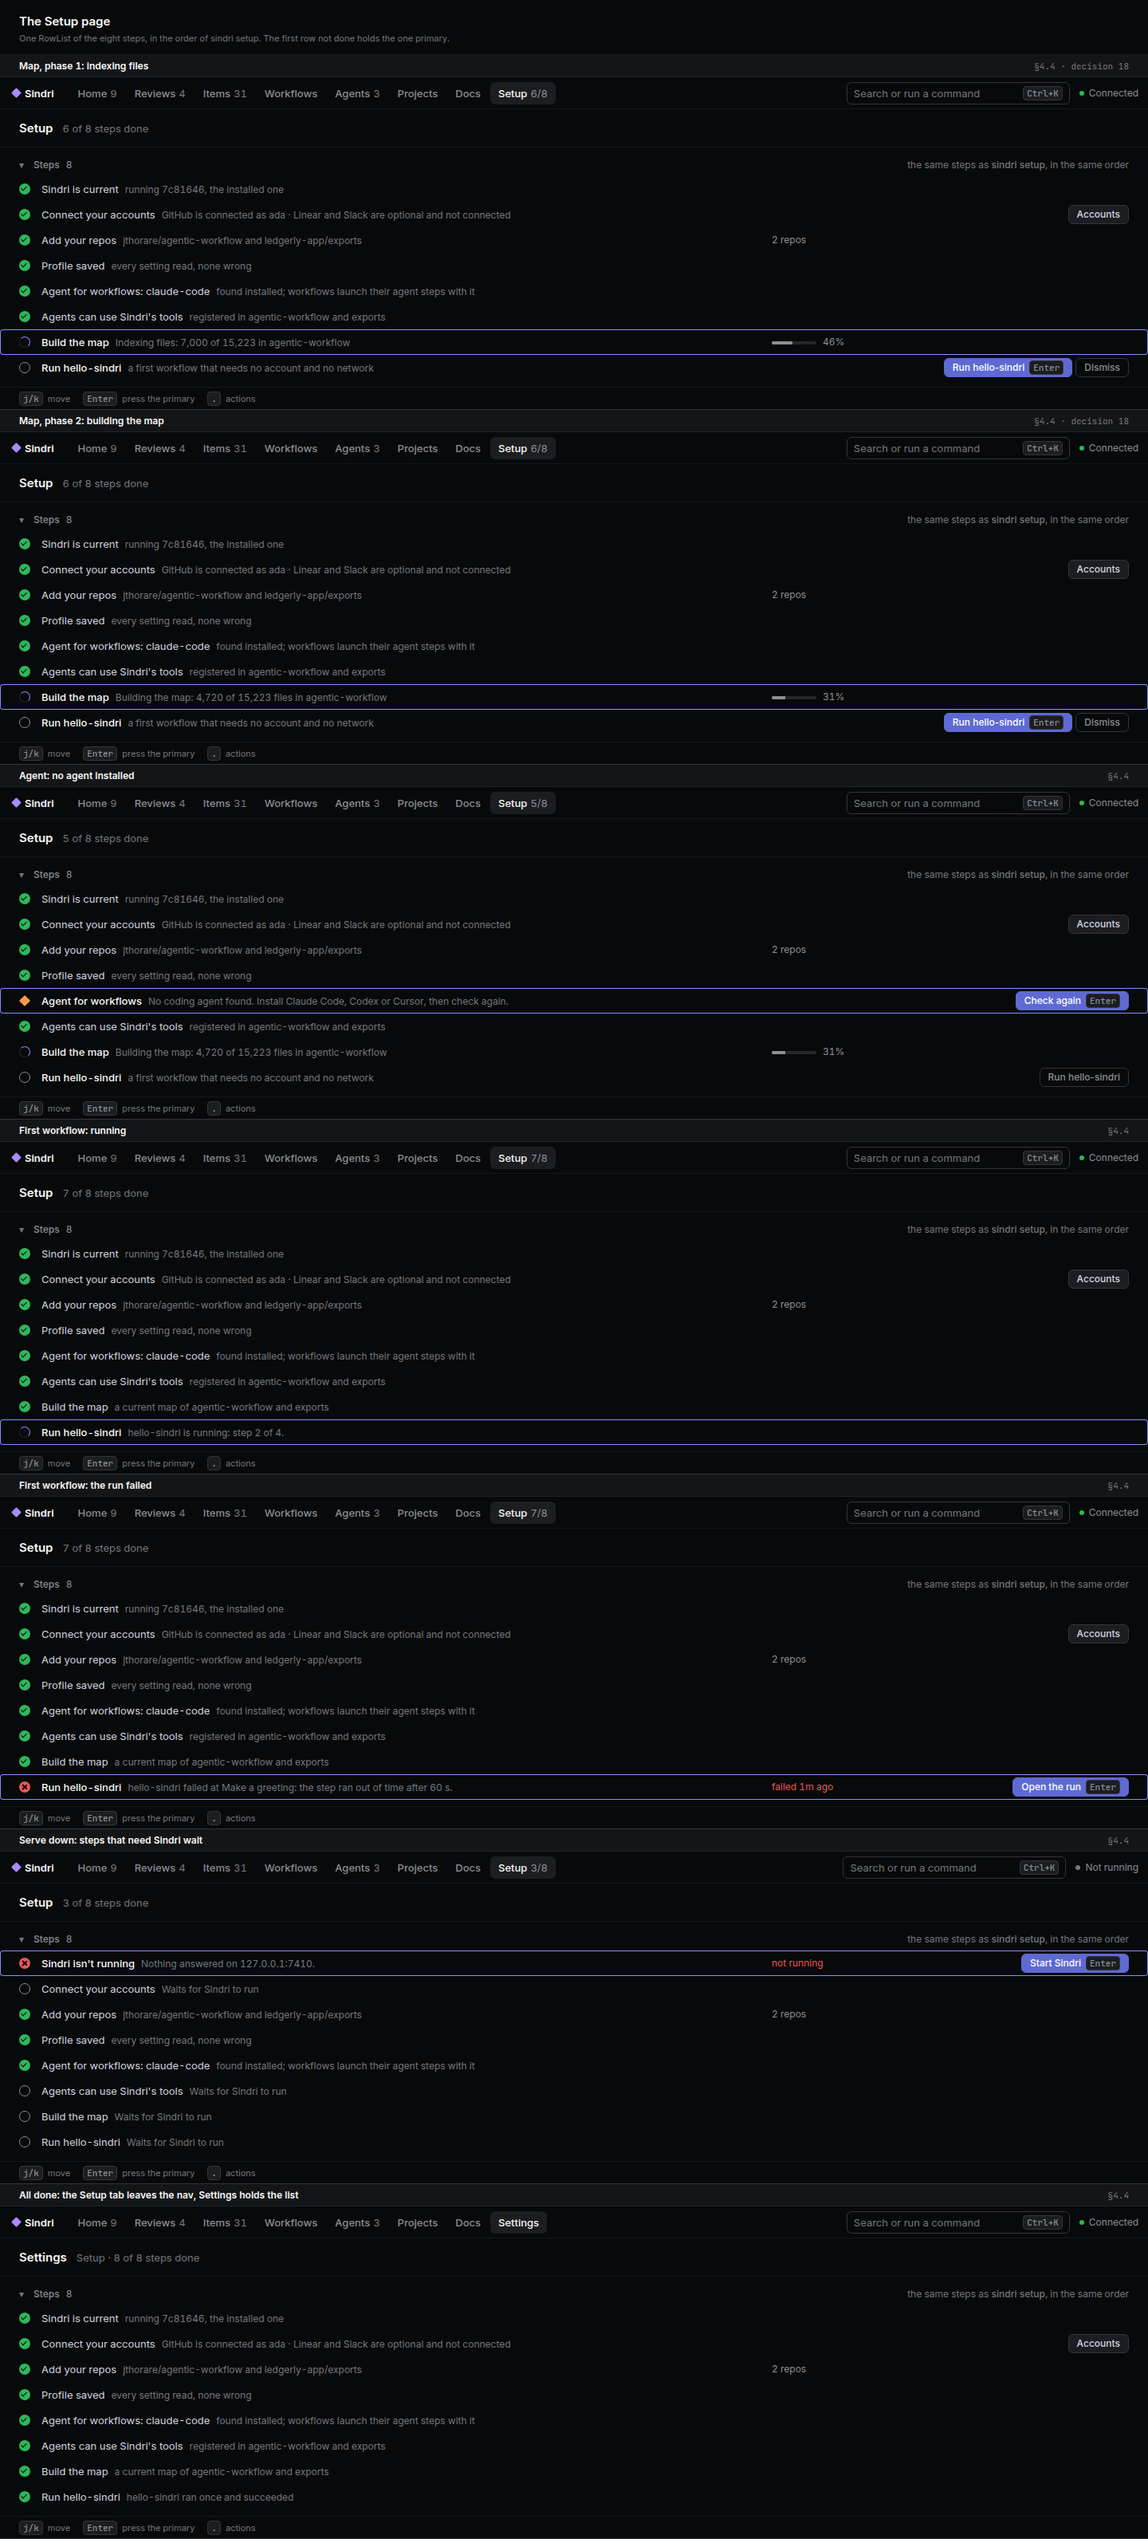
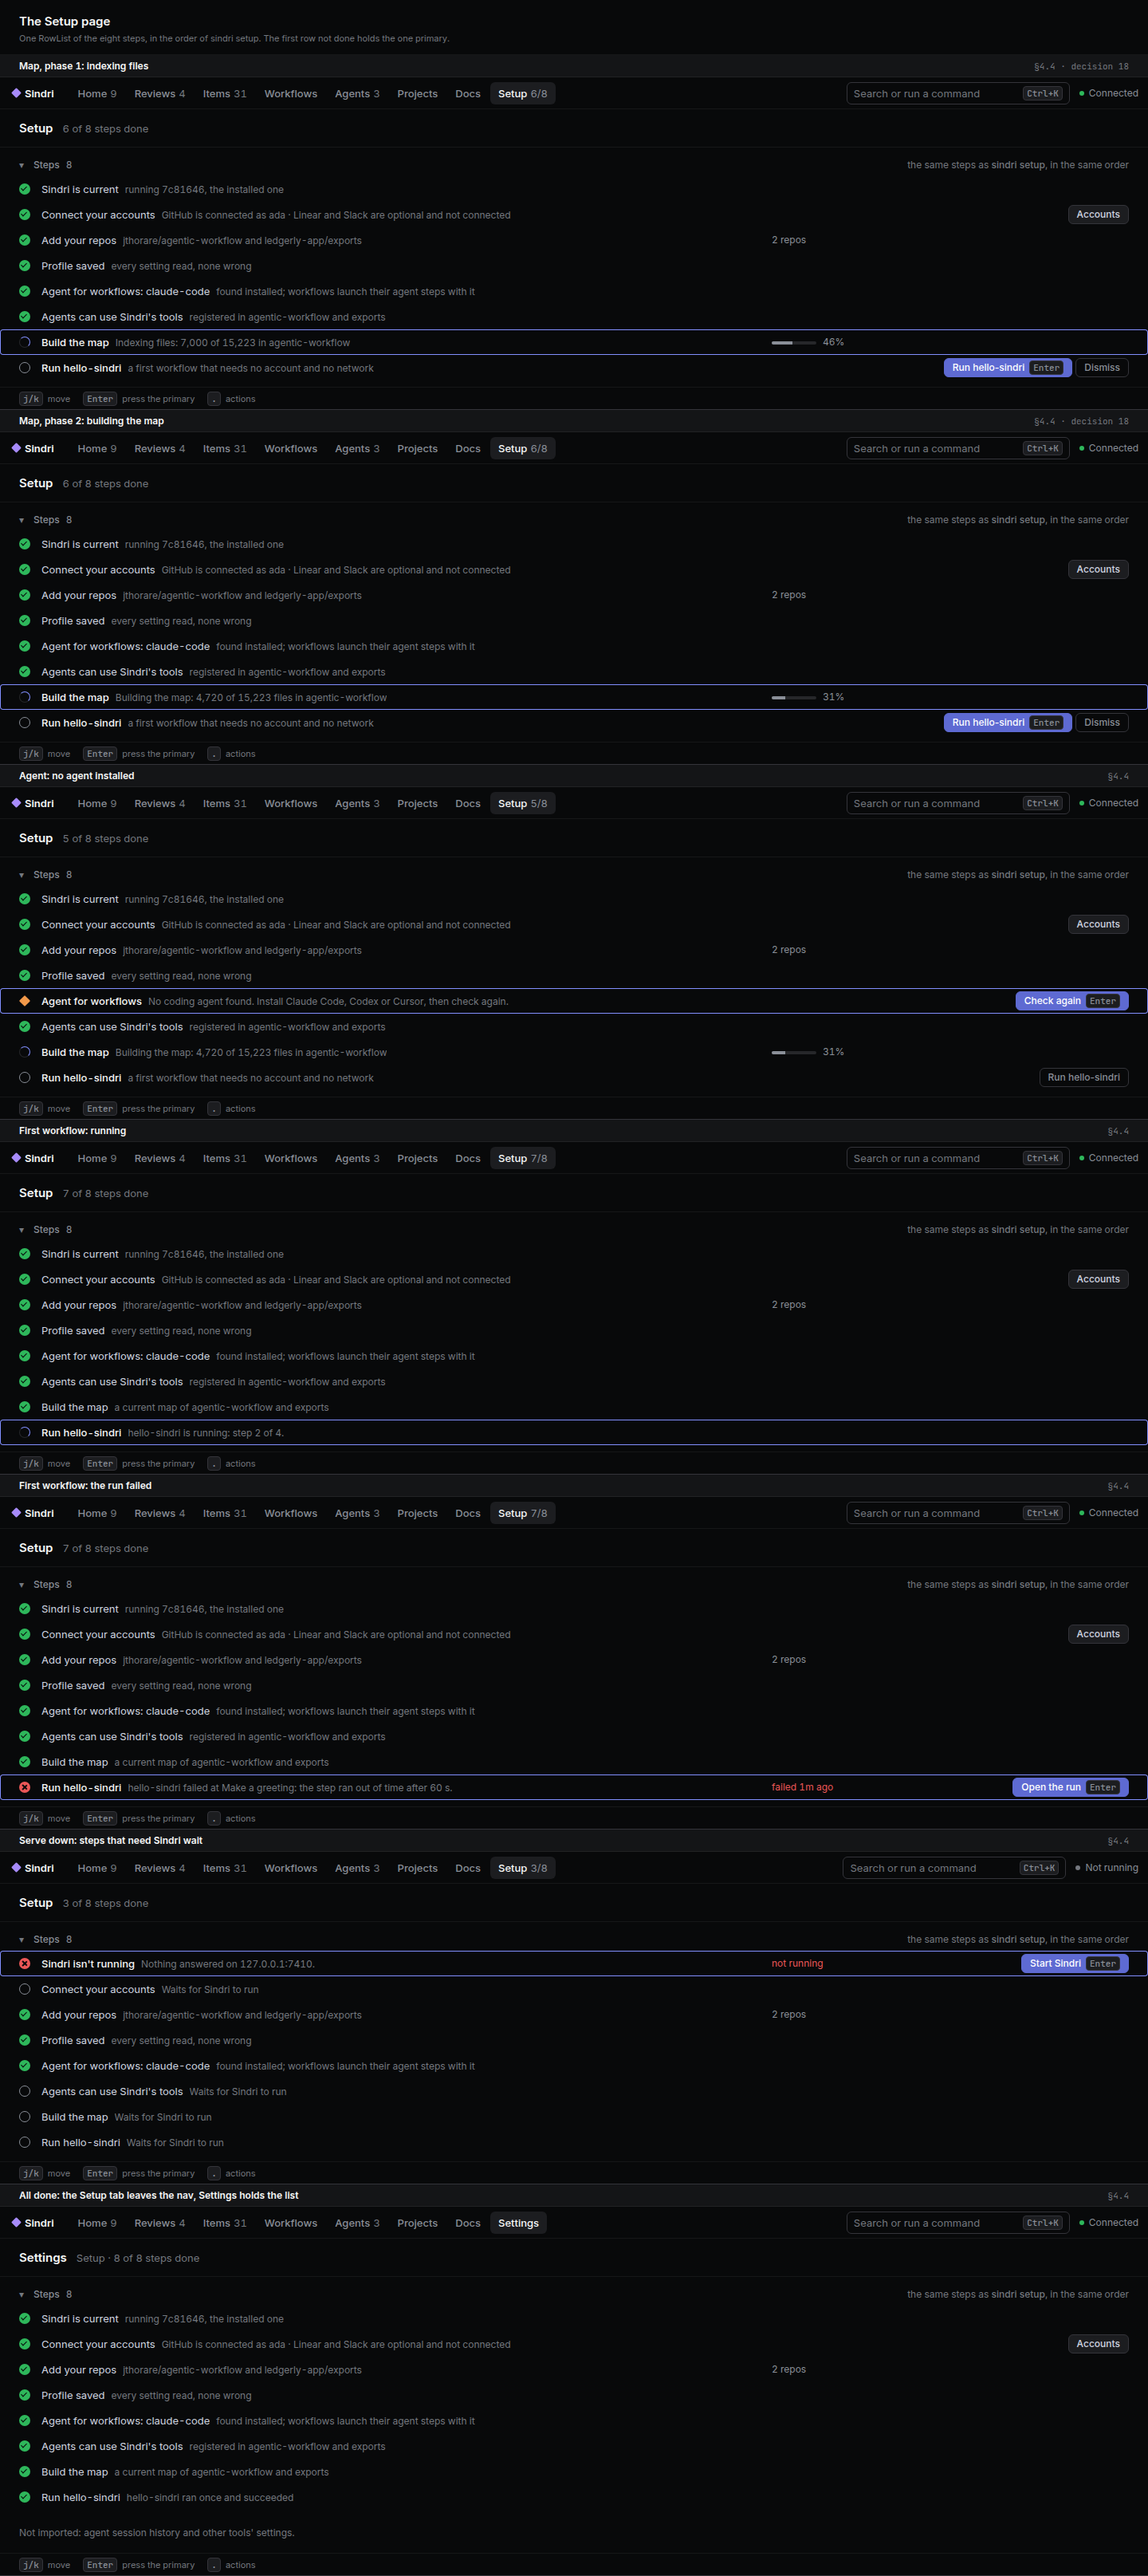
frames: first-run all-done panel says what is not imported (spec 9)

diff --git a/setup-steps.html b/setup-steps.html
@@ -43,6 +43,6 @@ body{height:auto;overflow:visible}
 <section class="panel"><div class="plabel"><b>First workflow: running</b><span>§4.4</span></div><div class="pbody"><div class="topbar"><div class="wordmark">Sindri</div><nav class="nav"><a href="#">Home<span class=n>9</span></a><a href="#">Reviews<span class=n>4</span></a><a href="#">Items<span class=n>31</span></a><a href="#">Workflows</a><a href="#">Agents<span class=n>3</span></a><a href="#">Projects</a><a href="#">Docs</a><a class=on href="#">Setup<span class=n>7/8</span></a></nav><div class="spacer"></div><div class="cmdk">Search or run a command<kbd>Ctrl+K</kbd></div><div class="status-pill">Connected</div></div><div class="header"><h1>Setup</h1><span class="count">7 of 8 steps done</span></div><div class="list" style="--facts:136px;--col-act:260px"><div class="group"><span class="chev">▾</span>Steps <span class="n">8</span><span class="right">the same steps as <b style="font-weight:500">sindri setup</b>, in the same order</span></div><div class="row fix read"><span class="g done"></span><div class="title"><span class="t">Sindri is current</span><span class="sub">running 7c81646, the installed one</span></div><div class="fact"></div><div class="fixbtn"></div></div><div class="row fix read"><span class="g done"></span><div class="title"><span class="t">Connect your accounts</span><span class="sub">GitHub is connected as ada · Linear and Slack are optional and not connected</span></div><div class="fact"></div><div class="fixbtn"><span class="btn">Accounts</span></div></div><div class="row fix read"><span class="g done"></span><div class="title"><span class="t">Add your repos</span><span class="sub">jthorare/agentic-workflow and ledgerly-app/exports</span></div><div class="fact">2 repos</div><div class="fixbtn"></div></div><div class="row fix read"><span class="g done"></span><div class="title"><span class="t">Profile saved</span><span class="sub">every setting read, none wrong</span></div><div class="fact"></div><div class="fixbtn"></div></div><div class="row fix read"><span class="g done"></span><div class="title"><span class="t">Agent for workflows: claude-code</span><span class="sub">found installed; workflows launch their agent steps with it</span></div><div class="fact"></div><div class="fixbtn"></div></div><div class="row fix read"><span class="g done"></span><div class="title"><span class="t">Agents can use Sindri's tools</span><span class="sub">registered in agentic-workflow and exports</span></div><div class="fact"></div><div class="fixbtn"></div></div><div class="row fix read"><span class="g done"></span><div class="title"><span class="t">Build the map</span><span class="sub">a current map of agentic-workflow and exports</span></div><div class="fact"></div><div class="fixbtn"></div></div><div class="row fix unread cursor"><span class="g agent"></span><div class="title"><span class="t">Run hello-sindri</span><span class="sub">hello-sindri is running: step 2 of 4.</span></div><div class="fact"></div><div class="fixbtn"></div></div></div><div class="keys"><span><kbd>j/k</kbd>move</span><span><kbd>Enter</kbd>press the primary</span><span><kbd>.</kbd>actions</span></div></div></section>
 <section class="panel"><div class="plabel"><b>First workflow: the run failed</b><span>§4.4</span></div><div class="pbody"><div class="topbar"><div class="wordmark">Sindri</div><nav class="nav"><a href="#">Home<span class=n>9</span></a><a href="#">Reviews<span class=n>4</span></a><a href="#">Items<span class=n>31</span></a><a href="#">Workflows</a><a href="#">Agents<span class=n>3</span></a><a href="#">Projects</a><a href="#">Docs</a><a class=on href="#">Setup<span class=n>7/8</span></a></nav><div class="spacer"></div><div class="cmdk">Search or run a command<kbd>Ctrl+K</kbd></div><div class="status-pill">Connected</div></div><div class="header"><h1>Setup</h1><span class="count">7 of 8 steps done</span></div><div class="list" style="--facts:136px;--col-act:260px"><div class="group"><span class="chev">▾</span>Steps <span class="n">8</span><span class="right">the same steps as <b style="font-weight:500">sindri setup</b>, in the same order</span></div><div class="row fix read"><span class="g done"></span><div class="title"><span class="t">Sindri is current</span><span class="sub">running 7c81646, the installed one</span></div><div class="fact"></div><div class="fixbtn"></div></div><div class="row fix read"><span class="g done"></span><div class="title"><span class="t">Connect your accounts</span><span class="sub">GitHub is connected as ada · Linear and Slack are optional and not connected</span></div><div class="fact"></div><div class="fixbtn"><span class="btn">Accounts</span></div></div><div class="row fix read"><span class="g done"></span><div class="title"><span class="t">Add your repos</span><span class="sub">jthorare/agentic-workflow and ledgerly-app/exports</span></div><div class="fact">2 repos</div><div class="fixbtn"></div></div><div class="row fix read"><span class="g done"></span><div class="title"><span class="t">Profile saved</span><span class="sub">every setting read, none wrong</span></div><div class="fact"></div><div class="fixbtn"></div></div><div class="row fix read"><span class="g done"></span><div class="title"><span class="t">Agent for workflows: claude-code</span><span class="sub">found installed; workflows launch their agent steps with it</span></div><div class="fact"></div><div class="fixbtn"></div></div><div class="row fix read"><span class="g done"></span><div class="title"><span class="t">Agents can use Sindri's tools</span><span class="sub">registered in agentic-workflow and exports</span></div><div class="fact"></div><div class="fixbtn"></div></div><div class="row fix read"><span class="g done"></span><div class="title"><span class="t">Build the map</span><span class="sub">a current map of agentic-workflow and exports</span></div><div class="fact"></div><div class="fixbtn"></div></div><div class="row fix unread cursor"><span class="g fail"></span><div class="title"><span class="t">Run hello-sindri</span><span class="sub">hello-sindri failed at Make a greeting: the step ran out of time after 60 s.</span></div><div class="fact"><span class="err-t">failed 1m ago</span></div><div class="fixbtn"><span class="btn primary">Open the run <kbd>Enter</kbd></span></div></div></div><div class="keys"><span><kbd>j/k</kbd>move</span><span><kbd>Enter</kbd>press the primary</span><span><kbd>.</kbd>actions</span></div></div></section>
 <section class="panel"><div class="plabel"><b>Serve down: steps that need Sindri wait</b><span>§4.4</span></div><div class="pbody"><div class="topbar"><div class="wordmark">Sindri</div><nav class="nav"><a href="#">Home<span class=n>9</span></a><a href="#">Reviews<span class=n>4</span></a><a href="#">Items<span class=n>31</span></a><a href="#">Workflows</a><a href="#">Agents<span class=n>3</span></a><a href="#">Projects</a><a href="#">Docs</a><a class=on href="#">Setup<span class=n>3/8</span></a></nav><div class="spacer"></div><div class="cmdk">Search or run a command<kbd>Ctrl+K</kbd></div><div class="status-pill off">Not running</div></div><div class="header"><h1>Setup</h1><span class="count">3 of 8 steps done</span></div><div class="list" style="--facts:136px;--col-act:260px"><div class="group"><span class="chev">▾</span>Steps <span class="n">8</span><span class="right">the same steps as <b style="font-weight:500">sindri setup</b>, in the same order</span></div><div class="row fix unread cursor"><span class="g fail"></span><div class="title"><span class="t">Sindri isn't running</span><span class="sub">Nothing answered on 127.0.0.1:7410.</span></div><div class="fact"><span class="err-t">not running</span></div><div class="fixbtn"><span class="btn primary">Start Sindri <kbd>Enter</kbd></span></div></div><div class="row fix read"><span class="g todo"></span><div class="title"><span class="t">Connect your accounts</span><span class="sub">Waits for Sindri to run</span></div><div class="fact"></div><div class="fixbtn"></div></div><div class="row fix read"><span class="g done"></span><div class="title"><span class="t">Add your repos</span><span class="sub">jthorare/agentic-workflow and ledgerly-app/exports</span></div><div class="fact">2 repos</div><div class="fixbtn"></div></div><div class="row fix read"><span class="g done"></span><div class="title"><span class="t">Profile saved</span><span class="sub">every setting read, none wrong</span></div><div class="fact"></div><div class="fixbtn"></div></div><div class="row fix read"><span class="g done"></span><div class="title"><span class="t">Agent for workflows: claude-code</span><span class="sub">found installed; workflows launch their agent steps with it</span></div><div class="fact"></div><div class="fixbtn"></div></div><div class="row fix read"><span class="g todo"></span><div class="title"><span class="t">Agents can use Sindri's tools</span><span class="sub">Waits for Sindri to run</span></div><div class="fact"></div><div class="fixbtn"></div></div><div class="row fix read"><span class="g todo"></span><div class="title"><span class="t">Build the map</span><span class="sub">Waits for Sindri to run</span></div><div class="fact"></div><div class="fixbtn"></div></div><div class="row fix read"><span class="g todo"></span><div class="title"><span class="t">Run hello-sindri</span><span class="sub">Waits for Sindri to run</span></div><div class="fact"></div><div class="fixbtn"></div></div></div><div class="keys"><span><kbd>j/k</kbd>move</span><span><kbd>Enter</kbd>press the primary</span><span><kbd>.</kbd>actions</span></div></div></section>
-<section class="panel"><div class="plabel"><b>All done: the Setup tab leaves the nav, Settings holds the list</b><span>§4.4</span></div><div class="pbody"><div class="topbar"><div class="wordmark">Sindri</div><nav class="nav"><a href="#">Home<span class=n>9</span></a><a href="#">Reviews<span class=n>4</span></a><a href="#">Items<span class=n>31</span></a><a href="#">Workflows</a><a href="#">Agents<span class=n>3</span></a><a href="#">Projects</a><a href="#">Docs</a><a class=on href="#">Settings</a></nav><div class="spacer"></div><div class="cmdk">Search or run a command<kbd>Ctrl+K</kbd></div><div class="status-pill">Connected</div></div><div class="header"><h1>Settings</h1><span class="count">Setup · 8 of 8 steps done</span></div><div class="list" style="--facts:136px;--col-act:260px"><div class="group"><span class="chev">▾</span>Steps <span class="n">8</span><span class="right">the same steps as <b style="font-weight:500">sindri setup</b>, in the same order</span></div><div class="row fix read"><span class="g done"></span><div class="title"><span class="t">Sindri is current</span><span class="sub">running 7c81646, the installed one</span></div><div class="fact"></div><div class="fixbtn"></div></div><div class="row fix read"><span class="g done"></span><div class="title"><span class="t">Connect your accounts</span><span class="sub">GitHub is connected as ada · Linear and Slack are optional and not connected</span></div><div class="fact"></div><div class="fixbtn"><span class="btn">Accounts</span></div></div><div class="row fix read"><span class="g done"></span><div class="title"><span class="t">Add your repos</span><span class="sub">jthorare/agentic-workflow and ledgerly-app/exports</span></div><div class="fact">2 repos</div><div class="fixbtn"></div></div><div class="row fix read"><span class="g done"></span><div class="title"><span class="t">Profile saved</span><span class="sub">every setting read, none wrong</span></div><div class="fact"></div><div class="fixbtn"></div></div><div class="row fix read"><span class="g done"></span><div class="title"><span class="t">Agent for workflows: claude-code</span><span class="sub">found installed; workflows launch their agent steps with it</span></div><div class="fact"></div><div class="fixbtn"></div></div><div class="row fix read"><span class="g done"></span><div class="title"><span class="t">Agents can use Sindri's tools</span><span class="sub">registered in agentic-workflow and exports</span></div><div class="fact"></div><div class="fixbtn"></div></div><div class="row fix read"><span class="g done"></span><div class="title"><span class="t">Build the map</span><span class="sub">a current map of agentic-workflow and exports</span></div><div class="fact"></div><div class="fixbtn"></div></div><div class="row fix read"><span class="g done"></span><div class="title"><span class="t">Run hello-sindri</span><span class="sub">hello-sindri ran once and succeeded</span></div><div class="fact"></div><div class="fixbtn"></div></div></div><div class="keys"><span><kbd>j/k</kbd>move</span><span><kbd>Enter</kbd>press the primary</span><span><kbd>.</kbd>actions</span></div></div></section>
+<section class="panel"><div class="plabel"><b>All done: the Setup tab leaves the nav, Settings holds the list</b><span>§4.4</span></div><div class="pbody"><div class="topbar"><div class="wordmark">Sindri</div><nav class="nav"><a href="#">Home<span class=n>9</span></a><a href="#">Reviews<span class=n>4</span></a><a href="#">Items<span class=n>31</span></a><a href="#">Workflows</a><a href="#">Agents<span class=n>3</span></a><a href="#">Projects</a><a href="#">Docs</a><a class=on href="#">Settings</a></nav><div class="spacer"></div><div class="cmdk">Search or run a command<kbd>Ctrl+K</kbd></div><div class="status-pill">Connected</div></div><div class="header"><h1>Settings</h1><span class="count">Setup · 8 of 8 steps done</span></div><div class="list" style="--facts:136px;--col-act:260px"><div class="group"><span class="chev">▾</span>Steps <span class="n">8</span><span class="right">the same steps as <b style="font-weight:500">sindri setup</b>, in the same order</span></div><div class="row fix read"><span class="g done"></span><div class="title"><span class="t">Sindri is current</span><span class="sub">running 7c81646, the installed one</span></div><div class="fact"></div><div class="fixbtn"></div></div><div class="row fix read"><span class="g done"></span><div class="title"><span class="t">Connect your accounts</span><span class="sub">GitHub is connected as ada · Linear and Slack are optional and not connected</span></div><div class="fact"></div><div class="fixbtn"><span class="btn">Accounts</span></div></div><div class="row fix read"><span class="g done"></span><div class="title"><span class="t">Add your repos</span><span class="sub">jthorare/agentic-workflow and ledgerly-app/exports</span></div><div class="fact">2 repos</div><div class="fixbtn"></div></div><div class="row fix read"><span class="g done"></span><div class="title"><span class="t">Profile saved</span><span class="sub">every setting read, none wrong</span></div><div class="fact"></div><div class="fixbtn"></div></div><div class="row fix read"><span class="g done"></span><div class="title"><span class="t">Agent for workflows: claude-code</span><span class="sub">found installed; workflows launch their agent steps with it</span></div><div class="fact"></div><div class="fixbtn"></div></div><div class="row fix read"><span class="g done"></span><div class="title"><span class="t">Agents can use Sindri's tools</span><span class="sub">registered in agentic-workflow and exports</span></div><div class="fact"></div><div class="fixbtn"></div></div><div class="row fix read"><span class="g done"></span><div class="title"><span class="t">Build the map</span><span class="sub">a current map of agentic-workflow and exports</span></div><div class="fact"></div><div class="fixbtn"></div></div><div class="row fix read"><span class="g done"></span><div class="title"><span class="t">Run hello-sindri</span><span class="sub">hello-sindri ran once and succeeded</span></div><div class="fact"></div><div class="fixbtn"></div></div><div class="dpanel" style="margin-top:var(--sp3);background:transparent;border:0">Not imported: agent session history and other tools' settings.</div></div><div class="keys"><span><kbd>j/k</kbd>move</span><span><kbd>Enter</kbd>press the primary</span><span><kbd>.</kbd>actions</span></div></div></section>
 
 </body></html>

diff --git a/gen.py b/gen.py
@@ -323,6 +323,7 @@ def steps_panels():
     dn = snav('Setup','3/8').replace('status-pill">Connected','status-pill off">Not running')
     P.append(panel('Serve down: steps that need Sindri wait', '§4.4', sbody('Setup','3 of 8 steps done', down, dn)))
     alld = cur+acc+rep+prof+ag+mcp+mapd+sd('Run hello-sindri','hello-sindri ran once and succeeded')
+    alld += '<div class="dpanel" style="margin-top:var(--sp3);background:transparent;border:0">Not imported: agent session history and other tools\' settings.</div>'
     P.append(panel('All done: the Setup tab leaves the nav, Settings holds the list', '§4.4', sbody('Settings','Setup · 8 of 8 steps done', alld, snav('Settings'))))
     return P
 
